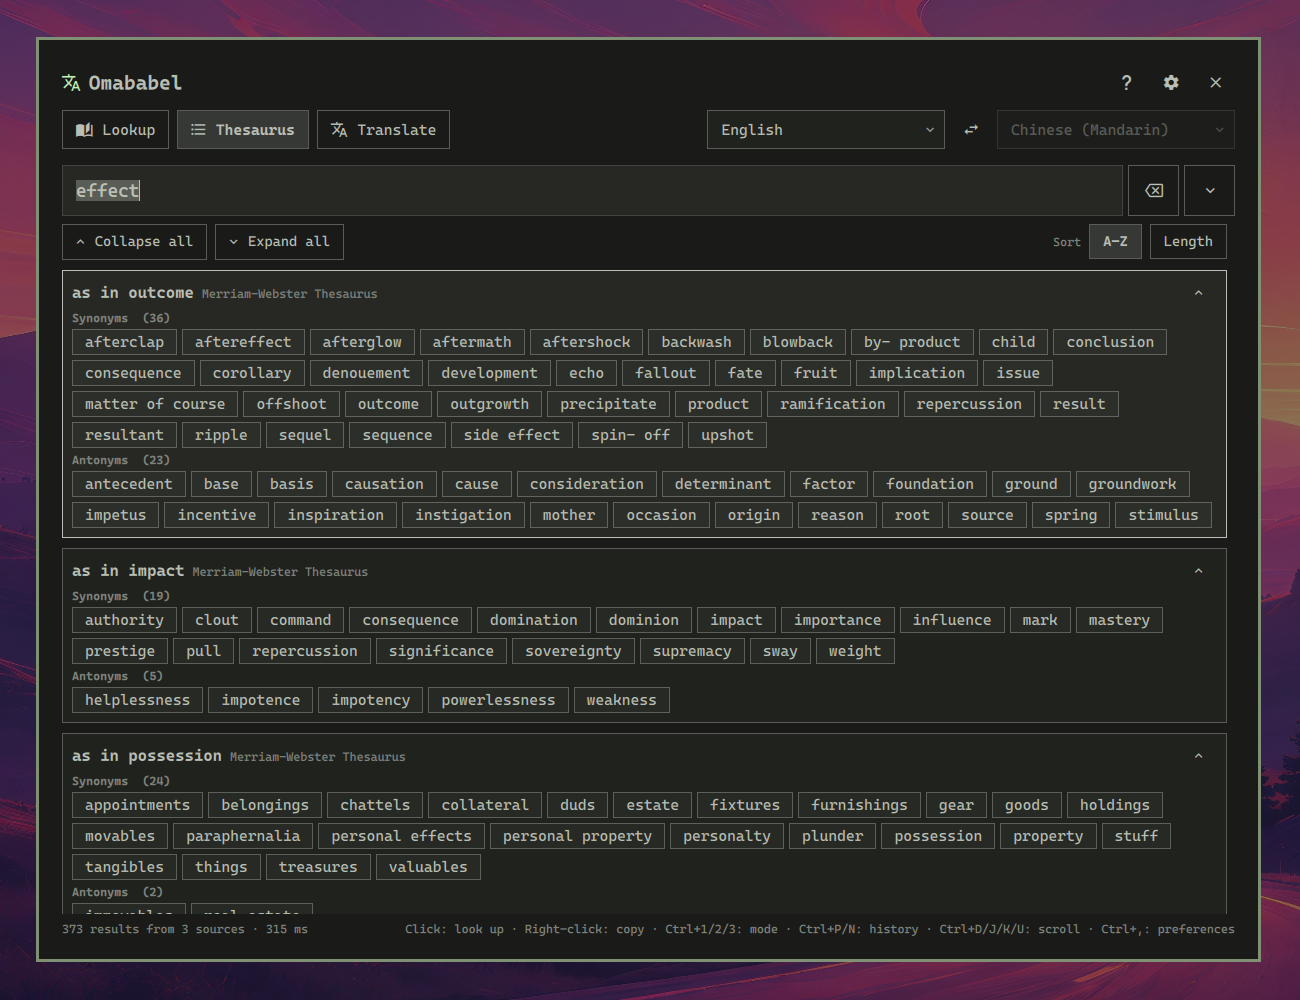
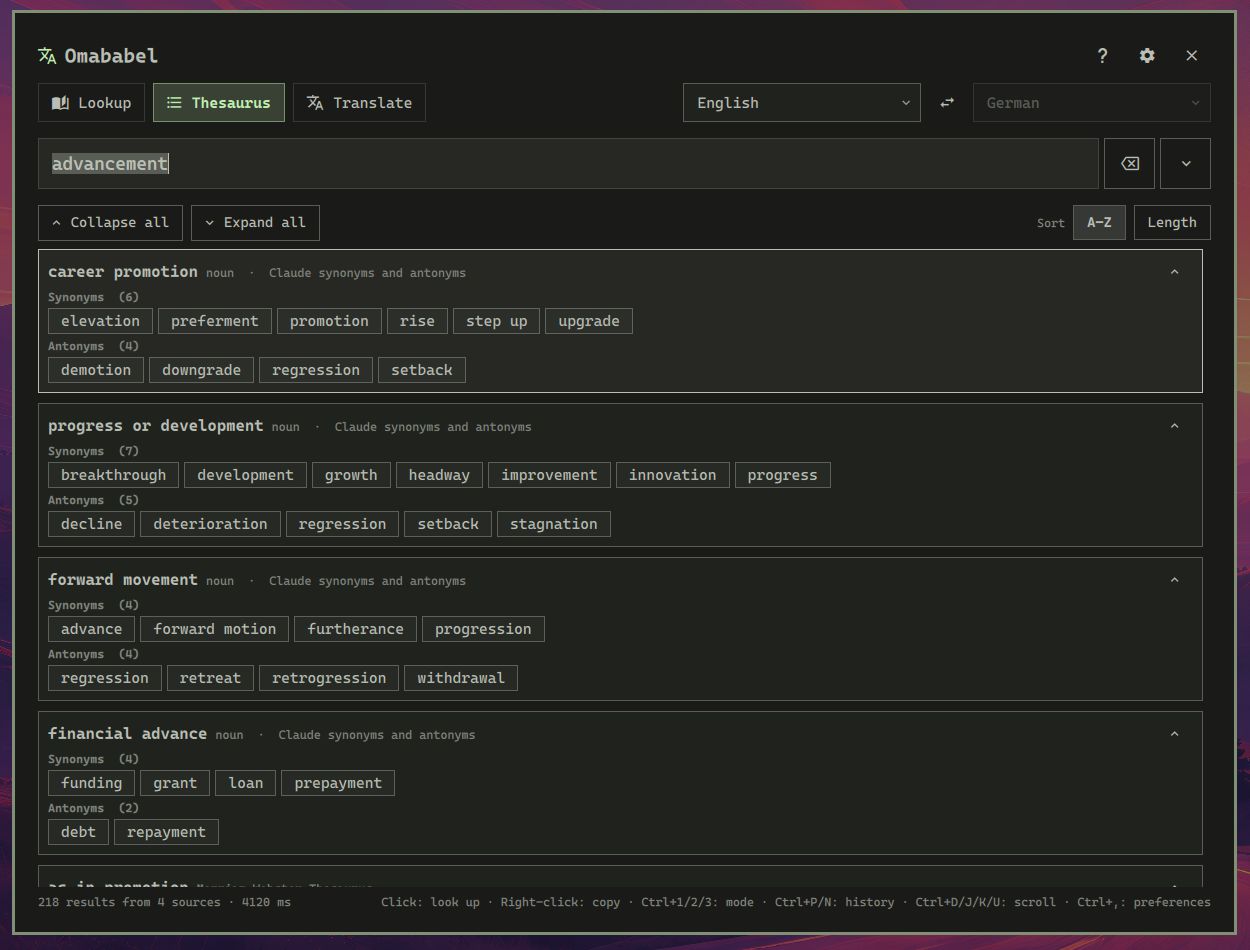
Improved README and updated preview image

Changed region(s): [[0.0, 0.0, 1.0, 1.0], [0.5304, 0.0916, 0.624, 0.1526], [0.7176, 0.1221, 0.7488, 0.1526]]

diff --git a/README.md b/README.md
@@ -16,11 +16,13 @@ A dictionary, thesaurus and translation panel for [Omarchy](https://omarchy.org/
   CC-CEDICT, ECDICT, ...), full-text translation services 
   (Google Translate, DeepL, Claude, Gemini, Grok, ...) between the two selected languages.
 
-Searching is done by a bundled, dependency-free Python 3 backend.
-No third-party packages or build steps are required.
-
-
 ![](preview.png)
+
+
+A note on speed: web sources and local dictionaries are usually queried in milliseconds,
+AI queries can take several seconds.
+
+
 
 
 ## Installation
@@ -53,10 +55,26 @@ o.bind("SUPER + SHIFT + ALT + SLASH", "Look up selection",
 Payload keys: `query`, `mode` (`lookup` | `thesaurus` | `translate`),
 `lang`, `lang2` (target language for translate).
 
-Requirements: 
+
+
+### Dependencies
+
+Required: 
   - Omarchy Quattro (`omarchy-shell`)
   - `python3` (part of every Omarchy install)
   - `wl-clipboard` for right-click copying.
+
+Optional: 
+  - `curl-impersonate` for more reliable web source scraping
+
+Searching is done by a bundled, dependency-free Python 3 backend.
+No third-party packages or build steps are required.
+However, web source queries are more reliable when the arch package `curl-impersonate` is also installed
+as it makes it easier for the plugin to pretend to be a browser when scraping websites.
+The package can be installed with:
+```
+omarchy pkg add curl-impersonate
+```
 
 
 
@@ -139,7 +157,7 @@ The preferences have three tabs: **Sources**, **Data** (downloadable
 dictionaries) and **History** (maximum number of remembered searches, plus a
 button to clear the history).
 
- → **Sources** lists every search source. Each row can be enabled/disabled
+⚙ → **Sources** lists every search source. Each row can be enabled/disabled
 (disabled sources are not queried), edited, moved, deleted, or tested with a
 sample word. **Add source** creates a new one.
 
